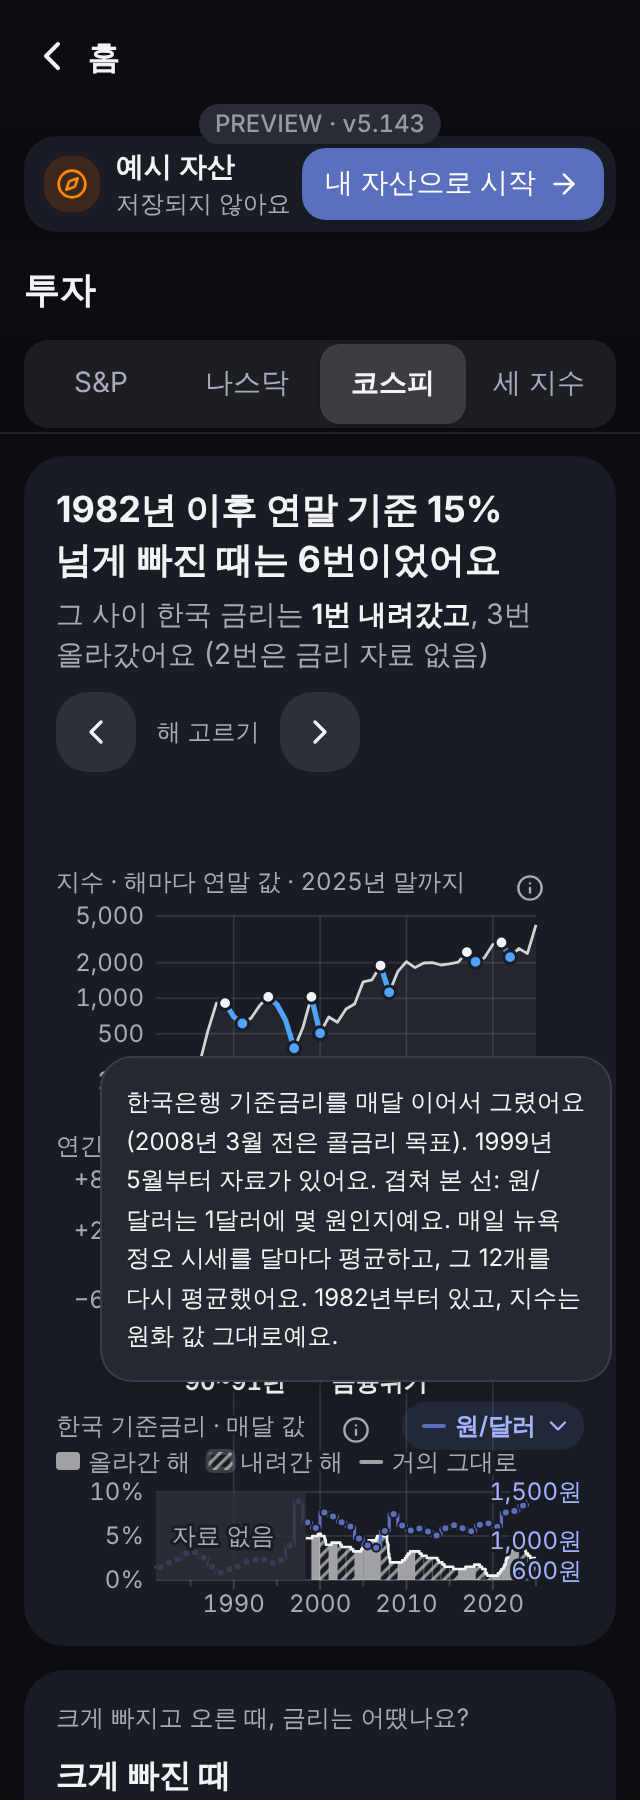
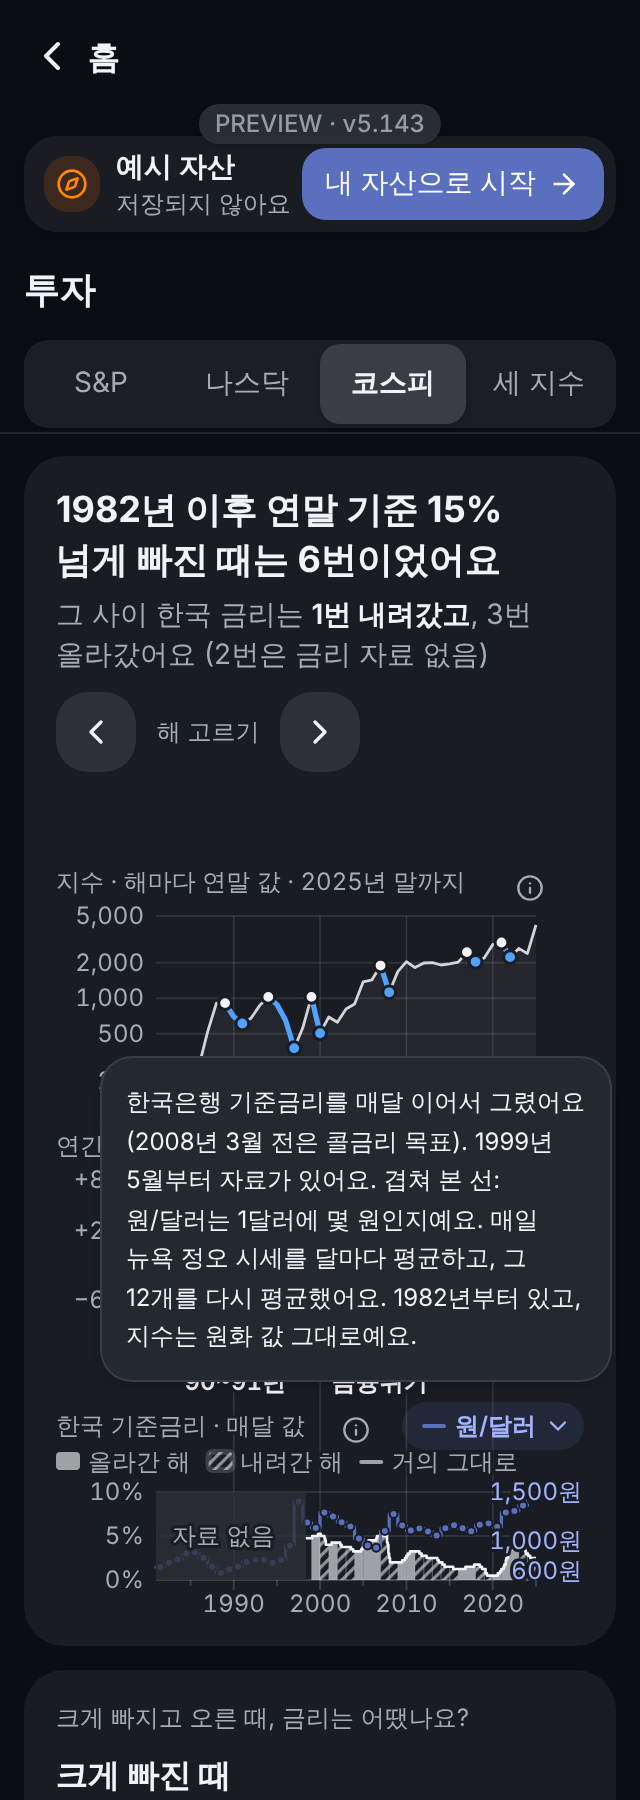
memory: 5.143 UI 승인 @ea6bd50

Changed region(s): [[0.1875, 0.6533, 0.9062, 0.7467]]

diff --git a/issues/5.141-270-invest-r3/5.143-ui-review.md b/issues/5.141-270-invest-r3/5.143-ui-review.md
@@ -32,3 +32,7 @@
 
 ## 결론
 FX_INFO `원/달러` nowrap 1건만 반영되면 `UI 승인`. 그 외 전 항목 통과, qa 입력 가능.
+
+## 재확인 @ea6bd50 (preview, 320 라이트·다크)
+Vercel success 확인 후 기준금리 ⓘ 팝오버(원/달러 켠 상태) 글자 단위 줄 측정: `원/달러는 1달러에 몇 원인지예요.`가 한 줄에 온전(슬래시 분리 0), 다른 줄 어절 끊김 0. 캡처 `screenshots/5143-review-pv-ea6bd50-fxinfo-320-{light,dark}.png`.
+**UI 승인** (수정 요청 1건 해소, qa 입력 가능).
